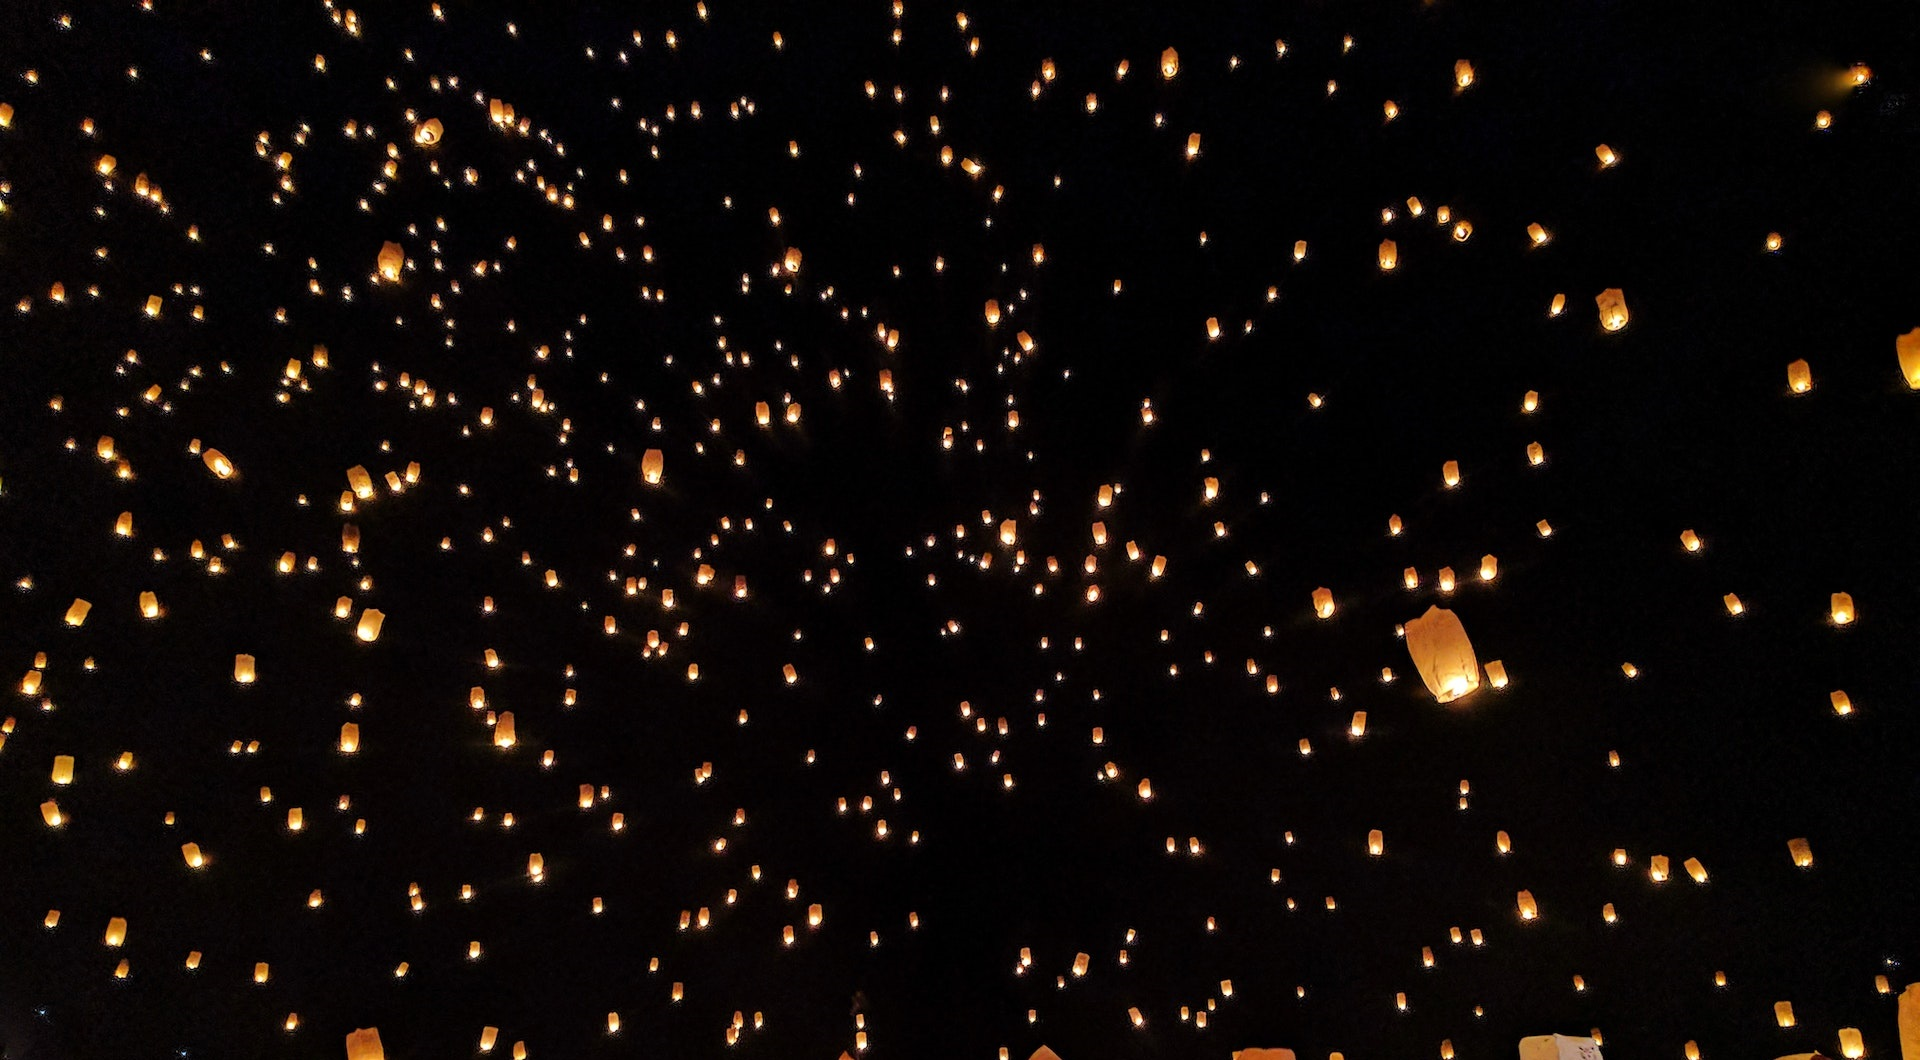
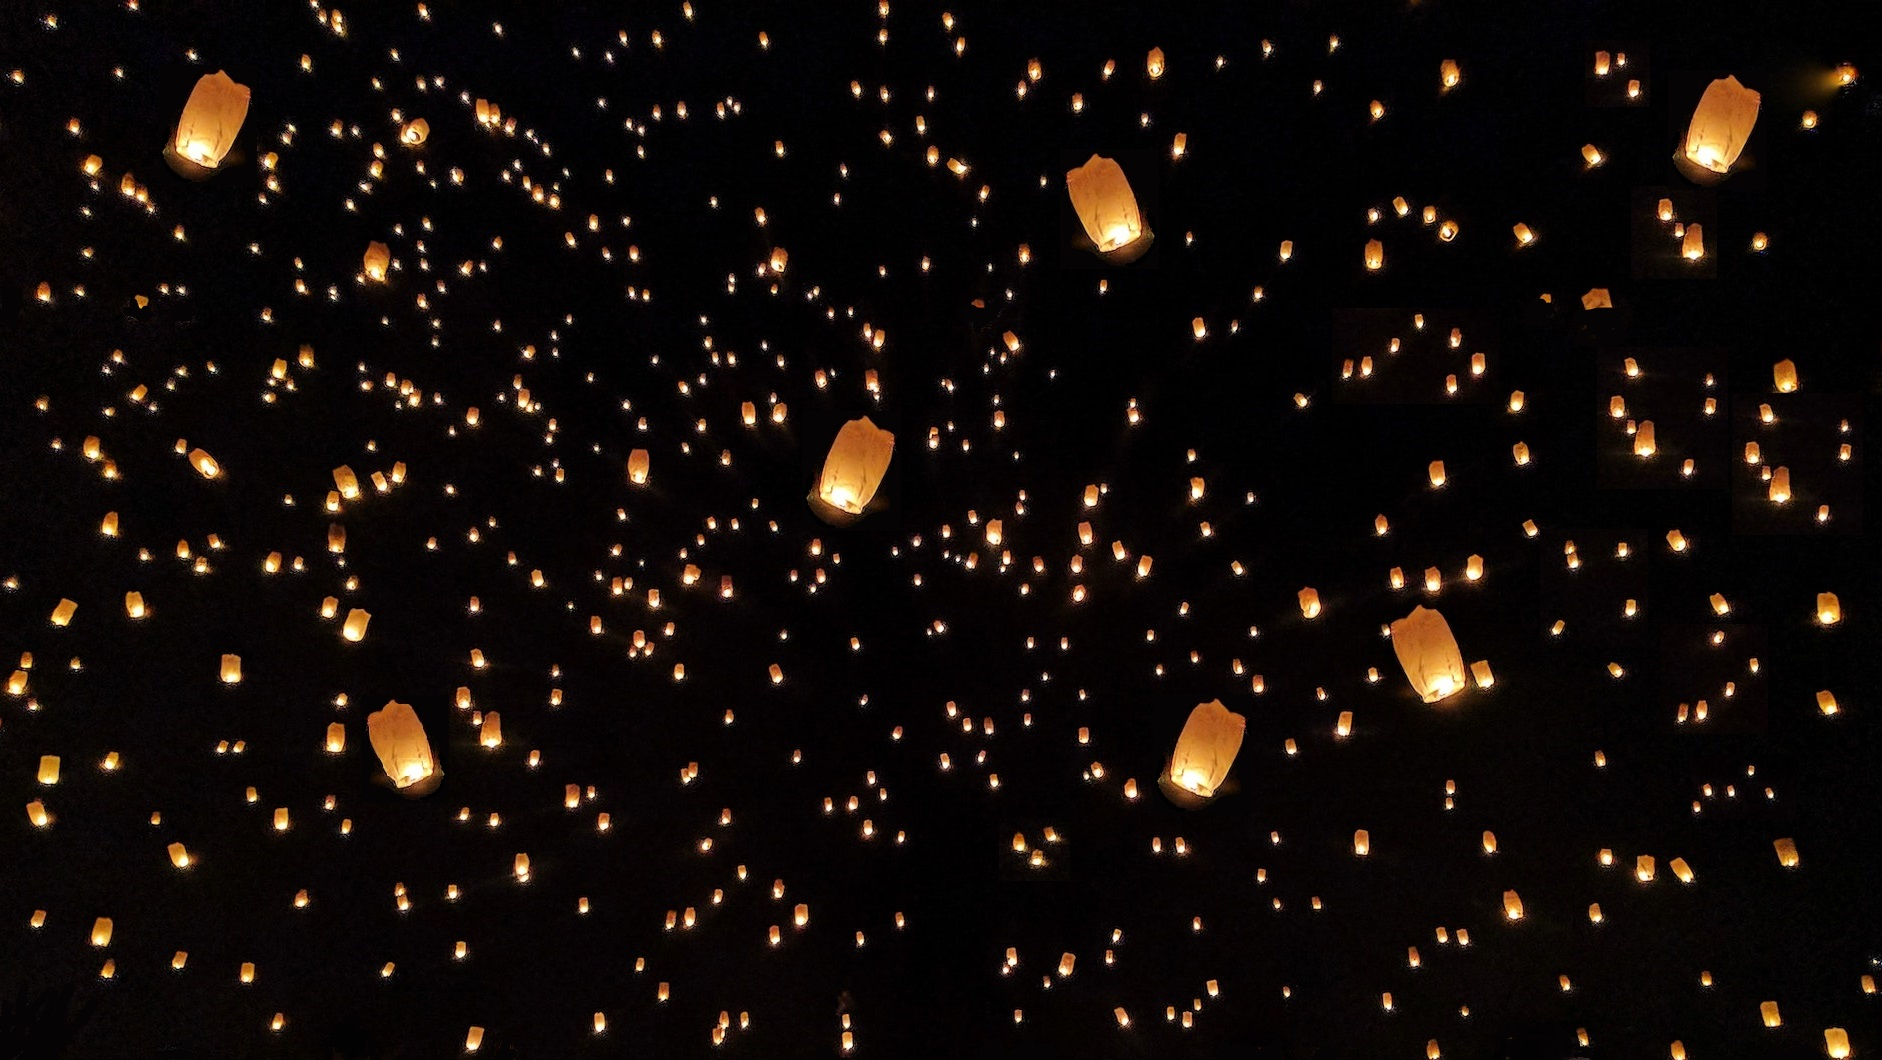
finished with contact

diff --git a/src/components/home.jsx b/src/components/home.jsx
@@ -34,10 +34,10 @@ export default class Home extends Component {
     const { endDate } = this.state
     return (
       <div className="App">
-        <img src={corner} alt="corner image" className='corner top-left' />
-        <img src={corner} alt="corner image" className='corner top-right' />
-        <img src={corner} alt="corner image" className='corner bottom-left' />
-        <img src={corner} alt="corner image" className='corner bottom-right' />
+        <img src={corner} alt="top left" className='corner top-left' />
+        <img src={corner} alt="top right" className='corner top-right' />
+        <img src={corner} alt="botton left" className='corner bottom-left' />
+        <img src={corner} alt="bottom right" className='corner bottom-right' />
         <section>
           <div className="castle-container">
             <img className="zoom-animation" src={castle} alt="Castle" />
@@ -70,6 +70,42 @@ export default class Home extends Component {
                 <p>2022</p>
               </div>
               <p>8:00 PM</p>
+            </div>
+          </div>
+        </section>
+        <section className='auto-flex' >
+          <div className='card'>
+            <div className='cursive line-spacing-0'>
+              <h3>Novios</h3>
+              <p>Paulina Ibarra Humaran</p>
+              <p>&</p>
+              <p style={{ 'lineHeight': 'normal' }}>Germán Eduardo Salazar Aranda</p>
+            </div>
+          </div>
+        </section>
+        <section className='auto-flex'>
+          <div className='card'>
+            <div className='cursive line-spacing-0'>
+              <h3>Padres</h3>
+              <p style={{ 'lineHeight': 'normal' }}>German Eduardo Salazar Quintero</p>
+              <p>&</p>
+              <p>Sara Marisa Aranda Quintero</p>
+              <hr style={{ 'width': '80%' }} />
+              <p style={{ 'lineHeight': 'normal' }}>Imelda Patricia Humaran Ocampo</p>
+              <p>&</p>
+              <p>Paul Ibarra Fuentes</p>
+            </div>
+          </div>
+          <div className='card'>
+            <div className='cursive line-spacing-0'>
+              <h3>Padrinos</h3>
+              <p>Kenya Inzunza Aceviz</p>
+              <p>&</p>
+              <p>Oliver Ibarra Fuentes</p>
+              <hr style={{ 'width': '80%' }} />
+              <p style={{ 'lineHeight': 'normal' }}>Marco Antonio Aranda Quintero</p>
+              <p>&</p>
+              <p>Mirna Selene Sainz Sánchez</p>
             </div>
           </div>
         </section>
@@ -119,42 +155,8 @@ export default class Home extends Component {
             </div>
           </div>
         </section>
-        <section className='auto-flex'>
-          <div className='card'>
-            <div className='cursive line-spacing-0'>
-              <h3>Padres</h3>
-              <p>German Eduardo Salazar Quintero</p>
-              <p>&</p>
-              <p>Sara Marisa Aranda Quintero</p>
-              <hr style={{ 'width': '80%' }} />
-              <p style={{ 'lineHeight': 'normal' }}>Imelda Patricia Humaran Ocampo</p>
-              <p>&</p>
-              <p>Paul Ibarra Fuentes</p>
-            </div>
-          </div>
-          <div className='card'>
-            <div className='cursive line-spacing-0'>
-              <h3>Padrinos</h3>
-              <p>Kenya Inzunza Aceviz</p>
-              <p>&</p>
-              <p>Oliver Ibarra Fuentes</p>
-              <hr style={{ 'width': '80%' }} />
-              <p>Marco Antonio Aranda Quintero</p>
-              <p>&</p>
-              <p>Mirna Selene Sainz Sánchez</p>
-            </div>
-          </div>
-        </section>
-        <section className='auto-flex' >
-          <div className='card'>
-            <div className='cursive line-spacing-0'>
-              <h3>Novios</h3>
-              <p>Paulina Ibarra Humaran</p>
-              <p>&</p>
-              <p>Germán Eduardo Salazar Aranda</p>
-            </div>
-          </div>
-        </section>
+
+
         <section className='auto-flex'>
           <div className='card'>
             <p>Regalo en efectivo</p>
@@ -172,11 +174,13 @@ export default class Home extends Component {
           <div className='card'>
             <p>Codigo de vestimenta:</p>
             <p>Formal</p>
+            <p>No niños</p>
+            <a href='https://api.whatsapp.com/send/?phone=5216672726823&text&type=phone_number&app_absent=0'>Confirmar Invitacion</a>
           </div>
         </section>
         <section>
           <div>
-            <h1>Vivieron felices para siempre</h1>
+            <h1>Vivieron felices por siempre</h1>
             <FlipCountdown
               size={this.counterSize()}
               monthTitle={'Meses'}

diff --git a/src/App.scss b/src/App.scss
@@ -11,9 +11,9 @@ $playfair-display-serif: 'Payfair Display', serif;
 $playfair-display-sans: 'Payfair Display', sans-serif;
 
 body {
-  //background-image: url("./assets/lanterns.png"), linear-gradient($pink, $primary);
   background-image: url("./assets/lanterns.jpg");
   background-size: 400px;
+  //background-size: cover;
   font-family: $playfair-display-serif;
   color: white;
 }
@@ -142,12 +142,10 @@ section {
 }
 
 .card {
-  //background-color: #E1DED9;
   padding: 10px;
-  //border-radius: 16px;
-  //box-shadow: rgba(50, 50, 93, 0.25) 0px 13px 27px -5px, rgba(0, 0, 0, 0.3) 0px 8px 16px -8px;
   display: grid;
-  //background-image: url("./assets/lanterns.jpg");
+  border-radius: 16px;
+  background-color: rgba(0, 0, 0, 0.6);
 
   >div {
     margin: auto;
@@ -157,6 +155,27 @@ section {
 .tick {
   font-size: 3em;
 }
+
+.display-block {
+  display: block;
+}
+
+.display-grid {
+  display: grid;
+}
+
+.giftSection {
+  padding: 2px;
+  display: flex;
+  align-items: baseline;
+  font-size: 2em;
+
+  span {
+    margin: 0 15px;
+    font-size: 1em;
+  }
+}
+
 
 .date-presentation {
   display: flex;
@@ -231,6 +250,8 @@ section {
     height: 100%;
 
     p {
+      top: 30%;
+      margin-left: -3px;
       font-size: 1.3em;
     }
   }
@@ -319,6 +340,13 @@ section {
 @media only screen and (min-width: 889px) {
   .corner {
     width: 330px;
+  }
+
+  .castle-container {
+    p {
+      top: 33%;
+      font-size: 3.5em;
+    }
   }
 }
 
